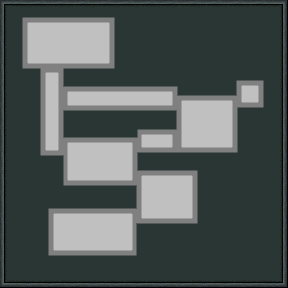
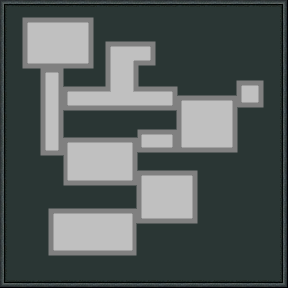
feat: playerpos with relative position on minimap

Changed region(s): [[0.2812, 0.0312, 0.5625, 0.3438]]

diff --git a/src/ui/minimap.cpp b/src/ui/minimap.cpp
@@ -1,7 +1,8 @@
 #include "minimap.h"
 #include "../core/asset_manager.h"
+#include <iostream>
 
-void MiniMap::draw(sf::RenderWindow &window, const sf::Vector2f playerPos)
+void MiniMap::draw(sf::RenderWindow &window, const sf::Vector2f playerPos, const std::string room_id, Room &room)
 {
 	const sf::View previousView = window.getView();
 	window.setView(sf::View(sf::FloatRect({0.f, 0.f}, sf::Vector2f(window.getSize()))));
@@ -10,8 +11,42 @@ void MiniMap::draw(sf::RenderWindow &window, const sf::Vector2f playerPos)
 	const sf::Vector2u texSize = minimap.getSize();
 	sf::Sprite sprite(minimap);
 	sprite.setScale({1, 1});
-	sprite.setPosition({window.getSize().x - texSize.x - 5.f, window.getSize().y - texSize.y - 5.f});
+	sf::Vector2f minimapPos =
+	    sf::Vector2f({window.getSize().x - texSize.x - 5.f, window.getSize().y - texSize.y - 5.f});
+	sprite.setPosition(minimapPos);
+	// sprite.setPosition({0, 0});
+
+	sf::CircleShape playerCircle;
+	playerCircle.setRadius(4.f);
+	playerCircle.setFillColor(sf::Color(255, 0, 0));
+	if (room_in_minimap.contains(room_id)) {
+		sf::Vector2f relativePlayerPos = sf::Vector2f(
+		    {playerPos.x / (room.width * World::TILE_SIZE), playerPos.y / (room.height * World::TILE_SIZE)});
+		// playerCircle.setPosition(
+		//     {minimapPos.x + (room_in_minimap.at(room_id).position.x + relativePlayerPos.x) * (texSize.x - 5.f),
+		//      minimapPos.y + (room_in_minimap.at(room_id).position.y + relativePlayerPos.y) * (texSize.y - 5.f)});
+
+		const auto &mapRoom = room_in_minimap.at(room_id);
+
+		playerCircle.setPosition(
+		    {minimapPos.x + (mapRoom.position.x + relativePlayerPos.x * mapRoom.size.x) * (texSize.x - 5.f),
+		     minimapPos.y + (mapRoom.position.y + relativePlayerPos.y * mapRoom.size.y) * (texSize.y - 5.f)});
+
+		// playerCircle.setPosition(
+		//     {minimapPos.x
+		//          + (room_in_minimap.at(room_id).position.x + relativePlayerPos.x +
+		//          room_in_minimap.at(room_id).size.x)
+		//                * (texSize.x - 5.f),
+		//      minimapPos.y
+		//          + (room_in_minimap.at(room_id).position.y + relativePlayerPos.y +
+		//          room_in_minimap.at(room_id).size.y)
+		//                * (texSize.y - 5.f)});
+	} else {
+		std::cout << "Roomid: " << room_id << " does not exist" << std::endl;
+		playerCircle.setPosition({minimapPos.x, minimapPos.y});
+	}
 
 	window.draw(sprite);
+	window.draw(playerCircle);
 	window.setView(previousView);
 }

diff --git a/src/ui/minimap.h b/src/ui/minimap.h
@@ -1,14 +1,34 @@
 #pragma once
+#include "../world/world.h"
 #include <SFML/Graphics.hpp>
 #include <vector>
 
 // Top-left HUD health indicator.
 class MiniMap {
   public:
-	static constexpr float PIP_RADIUS = 22.f;
-	static constexpr float PIP_SPACING = 12.f;
-	static constexpr float MARGIN_LEFT = 28.f;
-	static constexpr float MARGIN_TOP = 28.f;
+	static constexpr float MINIMAP_HEIGHT = 287.f;
+	static constexpr float MINIMAP_WIDTH = 287.f;
+
+	// This function is used to calculate the relative position and size of a room in the minimap by specifying for
+	// example the pixel coordinates of the top_left and the bottom_right corners.
+	static sf::FloatRect calcRelativePositionInMiniMapByPixels(sf::Vector2f top_left, sf::Vector2f bottom_right)
+	{
+		return sf::FloatRect({top_left.x / MiniMap::MINIMAP_WIDTH, top_left.y / MiniMap::MINIMAP_HEIGHT},
+		                     {(bottom_right.x - top_left.x) / MiniMap::MINIMAP_HEIGHT,
+		                      (bottom_right.y - top_left.y) / MiniMap::MINIMAP_HEIGHT});
+	}
+	// This is needed to calculate the position of the player in the minimap.
+	const std::unordered_map<std::string, sf::FloatRect> room_in_minimap{
+	    {"start_room", calcRelativePositionInMiniMapByPixels({53, 213}, {132, 249})},
+	    {"1", calcRelativePositionInMiniMapByPixels({141, 176}, {192, 217})},
+	    {"2", calcRelativePositionInMiniMapByPixels({67, 143}, {132, 180})},
+	    {"3", calcRelativePositionInMiniMapByPixels({141, 134}, {172, 147})},
+	    {"4", calcRelativePositionInMiniMapByPixels({45, 72}, {58, 150})},
+	    {"5", calcRelativePositionInMiniMapByPixels({181, 100}, {232, 147})},
+	    {"6", calcRelativePositionInMiniMapByPixels({241, 85}, {258, 102})},
+	    {"7", calcRelativePositionInMiniMapByPixels({68, 47}, {172, 105})},
+	    {"8", calcRelativePositionInMiniMapByPixels({28, 23}, {88, 64})},
+	};
 
 	MiniMap() = default;
 	~MiniMap() = default;
@@ -18,5 +38,5 @@ class MiniMap {
 	MiniMap &operator=(MiniMap &&) = delete;
 
 	// Draws the minimap in screen-space using the window's default view.
-	void draw(sf::RenderWindow &window, const sf::Vector2f playerPos);
+	void draw(sf::RenderWindow &window, const sf::Vector2f playerPos, const std::string room_id, Room &room);
 };

diff --git a/src/scenes/game_scene.cpp b/src/scenes/game_scene.cpp
@@ -192,7 +192,8 @@ void GameScene::draw(sf::RenderWindow &window)
 
 	healthBar_.draw(window, player_.health, player_.inventory().hasBackup());
 	hotbarHud_.draw(window, player_.inventory(), player_.activeEffects());
-	minimap_.draw(window, player_.getPosition());
+	Room *room = world_.getCurrentRoom();
+	minimap_.draw(window, player_.getPosition(), world_.getCurrentRoomId(), *room);
 }
 
 void GameScene::drawDebugHitboxes(sf::RenderWindow &window)

diff --git a/src/entities/player/player.cpp b/src/entities/player/player.cpp
@@ -10,7 +10,7 @@ std::mt19937 rng{std::random_device{}()};
 } // namespace
 
 namespace {
-constexpr sf::Vector2f PLAYER_SPAWN{15 * 32.f, 0.f};
+constexpr sf::Vector2f PLAYER_SPAWN{0.f, 0.f};
 } // namespace
 
 Inventory &Player::inventory() noexcept
